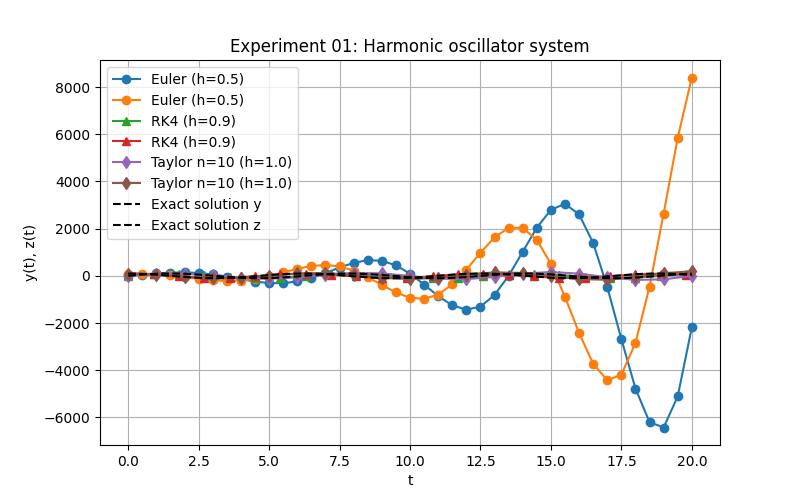
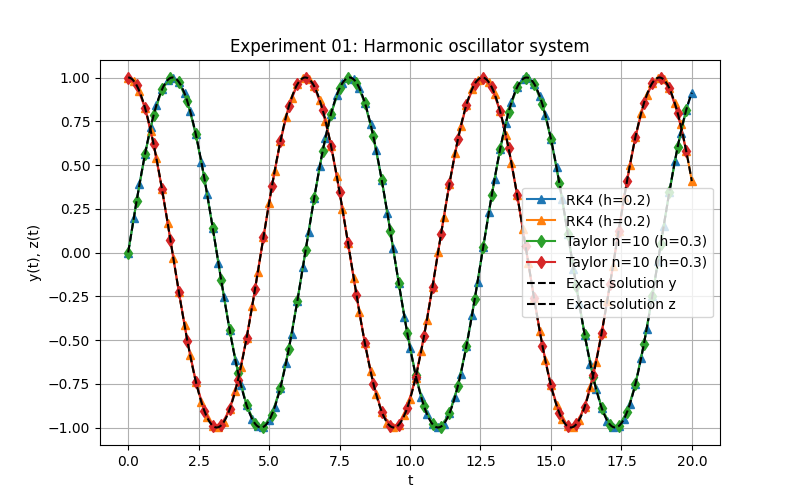
fixed experiment 2 taylor and rk

diff --git a/src/systems/sin_cos.py b/src/systems/sin_cos.py
@@ -8,20 +8,21 @@
 #
 
 import numpy as np;
+import math;
 
 # Function defining the ODE
 def f_y(t: float, y: float, z:float, omega: float
           ) -> float:
 
     # Right hand sides in: y' = -ω z ; y(0) = 0
-    return -omega * z;
+    return omega * z;
 
 
 def f_z(t: float, y:float, z: float, omega: float
         ) -> float:
     
     # Right hand sides in: z' = ω y  ; z(0) = 1
-    return omega * y;
+    return -omega * y;
 
 
 # Specialized Solvers for this system
@@ -100,43 +101,45 @@ def taylor_recursive_diff(
     order: int = 10
 ) -> tuple[np.ndarray, np.ndarray, np.ndarray]:
 
-    t_steps = int((t_span[1] - t_span[0]) / h)
-    t = np.zeros(t_steps + 1)
-    y = np.zeros(t_steps + 1)
-    z = np.zeros(t_steps + 1)
+    t_steps = int((t_span[1] - t_span[0]) / h);
+    t = np.zeros(t_steps + 1);
+    y = np.zeros(t_steps + 1);
+    z = np.zeros(t_steps + 1);
 
-    y[0], z[0] = y0, z0
-    t[0] = t_span[0]
+    y[0], z[0] = y0, z0;
+    t[0] = t_span[0];
 
     for i in range(t_steps):
+
         # Start with zeroth order (just the current values)
-        y_next = y[i]
-        z_next = z[i]
+        dy: np.ndarray = np.zeros(order+1);
+        dz: np.ndarray = np.zeros(order+1);
+    
+        dy[0] = y[i];
+        dz[0] = z[i];
+    
+        # First derivative
+        dy[1] = omega * z[i];
+        dz[1] = -omega * y[i];
+    
+        # Hiher derivatives z^(n+2)=−ω^2 * z^(n).
+        for j in range(2, order+1):
 
-        # First derivatives
-        dy = -omega * z[i]
-        dz =  omega * y[i]
+            dy[j] = -omega**2 * dy[j-2];
+            dz[j] = -omega**2 * dz[j-2];
+    
+        # Build T Sum
+        y_next = 0.0;
+        z_next = 0.0;
+        for j in range(order+1):
+            y_next += (h**j / math.factorial(j)) * dy[j];
+            z_next += (h**j / math.factorial(j)) * dz[j];
+    
+        y[i+1] = y_next;
+        z[i+1] = z_next;
+        t[i+1] = t[i] + h;
 
-        # First order term
-        y_next += h * dy
-        z_next += h * dz
-
-        # Higher orders
-        for j in range(2, order + 1):
-            # Compute j-th derivatives from previous ones
-            ddy = -omega * dz
-            ddz =  omega * dy
-            dy, dz = ddy, ddz
-
-            # Add contribution with division by j
-            y_next += (h / j) * dy
-            z_next += (h / j) * dz
-
-        # Update arrays
-        y[i+1], z[i+1] = y_next, z_next
-        t[i+1] = t[i] + h
-
-    return t, y, z
+    return t, y, z;
 
 
 # End of file

diff --git a/src/gpu/gpu_sho_simplectic_euler.py b/src/gpu/gpu_sho_simplectic_euler.py
@@ -1,0 +1,83 @@
+#
+# Mass on a spring
+# H(p, q) = p^2 / 2m  +  kq^2 / 2
+# q˙ = ∂H/∂p  <=> p/m
+# p˙ = -∂H/∂q <=> -kq
+
+import numpy as np;
+import matplotlib.pyplot as plt;
+import pyopencl as cl;
+import random;
+
+# Context and queue
+ctx = cl.create_some_context(interactive=False);
+queue = cl.CommandQueue(ctx);
+
+# Parameters
+n: int = 1000; # Number of oscillators
+dt: float = 0.01;
+k: float = 1.0;
+m: float = 1.0;
+steps: int = 100;
+
+# Initial conditions randomly selected 
+q: np.ndarray = np.random.uniform(-1, 1, size=n).astype(np.float32); # np.ndarray of floats from -1 - 1
+p: np.ndarray = np.zeros_like(q);
+
+# Kernel
+kernel = '''
+__kernel void simplectic_euler_step(
+
+    __global float* q,
+    __global float* p,
+    float dt, float k, float m, int steps ) {
+
+        int i = get_global_id(0);
+        float q = q_out[i]; 
+        float p = p_out[i];
+
+        for (int s = 0; s < steps; s++) {
+
+            // simplectic Euler update
+            p = p - dt * k * q;
+            q = q + dt * p / m;
+
+            // write snapshot
+            q_out[s*n + i] = q;
+            p_out[s*n + i] = p;
+        }
+    }
+'''
+
+# Build program
+program = cl.Program(ctx, kernel).build();
+mf = cl.mem_flags;
+
+# Retrieve kernel once
+simplectic_step = cl.Kernel(program, "simplectic_euler_step");
+
+# Buffers
+q_buf = cl.Buffer(ctx, mf.READ_WRITE | mf.COPY_HOST_PTR, hostbuf=q)
+p_buf = cl.Buffer(ctx, mf.READ_WRITE | mf.COPY_HOST_PTR, hostbuf=p)
+
+# Run integration
+for _ in range(steps):
+    simplectic_step.set_args(
+        q_buf, p_buf,
+        np.float32(dt), np.float32(k), np.float32(m), steps );
+    cl.enqueue_nd_range_kernel(queue, simplectic_step, (n,), None);
+
+# Return results back
+cl.enqueue_copy(queue, q, q_buf);
+cl.enqueue_copy(queue, p, p_buf);
+
+print("Final positions:", q[:10]);
+print("Final momenta:", p[:10]);
+
+energy = 0.5 * (p**2 / m + k * q**2);
+print("Sample energies:", energy[:10]);
+print("Mean energy:", energy.mean());
+
+
+
+# End of file

diff --git a/experiments/exp02_sincos.py b/experiments/exp02_sincos.py
@@ -18,15 +18,15 @@ from src.systems.sin_cos import taylor_recursive_diff;
 def main():
 
     # Problem setup
-    omega: float = -1.0;
-    y0: float = 5.0;
-    z0: float = 100.0;
+    omega: float = 1.0;
+    y0: float = 0.0;
+    z0: float = 1.0;
     t_span: tuple[float, float] = (0.0, 20.0);
 
     # Step sizes
-    h_euler: float = 0.5;
-    h_rk4: float = 0.9;
-    h_taylor: float = 1.0;
+    h_euler: float = 0.1;
+    h_rk4: float = 0.2;
+    h_taylor: float = 0.3;
 
     # Euler
     t_eu, y_eu, z_eu = euler(sin_cos.f_y, sin_cos.f_z, t_span, y0, z0, h_euler, omega);
@@ -39,8 +39,8 @@ def main():
 
     # Exact solution at final time
     t_final = t_span[1];
-    y_exact_final = y0 * np.cos(omega * t_final) - z0 * np.sin(omega * t_final);
-    z_exact_final = y0 * np.sin(omega * t_final) + z0 * np.cos(omega * t_final);
+    y_exact_final = z0 * np.sin(omega * t_final);
+    z_exact_final = z0 * np.cos(omega * t_final);
 
     # Errors in y at final time
     err_eu = abs(y_eu[-1] - y_exact_final);
@@ -59,8 +59,8 @@ def main():
 
     # Euler
     plt.figure(figsize=(8, 5));
-    plt.plot(t_eu, y_eu, "o-", label=f"Euler (h={h_euler})");
-    plt.plot(t_eu, z_eu, "o-", label=f"Euler (h={h_euler})");
+    #plt.plot(t_eu, y_eu, "o-", label=f"Euler (h={h_euler})");
+    #plt.plot(t_eu, z_eu, "o-", label=f"Euler (h={h_euler})");
 
     # Runge-Kutta
     plt.plot(t_rk4, y_rk4, "^-", label=f"RK4 (h={h_rk4})");
@@ -72,8 +72,8 @@ def main():
 
     # Exact curve
     t_dense = np.linspace(*t_span, 500);
-    y_exact = y0 * np.cos(omega * t_dense) - z0 * np.sin(omega * t_dense);
-    z_exact = y0 * np.sin(omega * t_dense) + z0 * np.cos(omega * t_dense);
+    y_exact = z0 * np.sin(omega * t_dense);
+    z_exact = z0 * np.cos(omega * t_dense);
     
     # Exact solutions
     plt.plot(t_dense, y_exact, "k--", label="Exact solution y");
